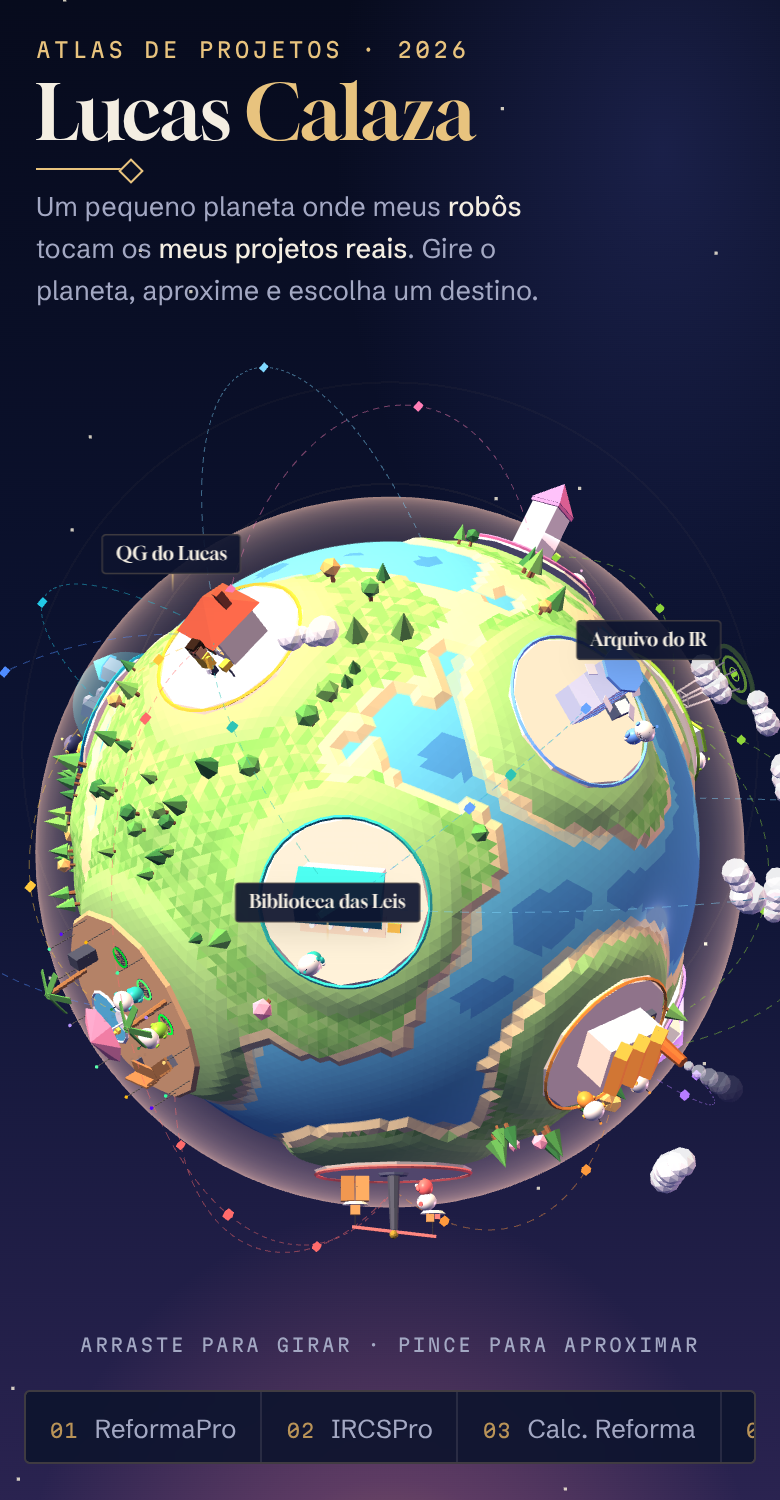
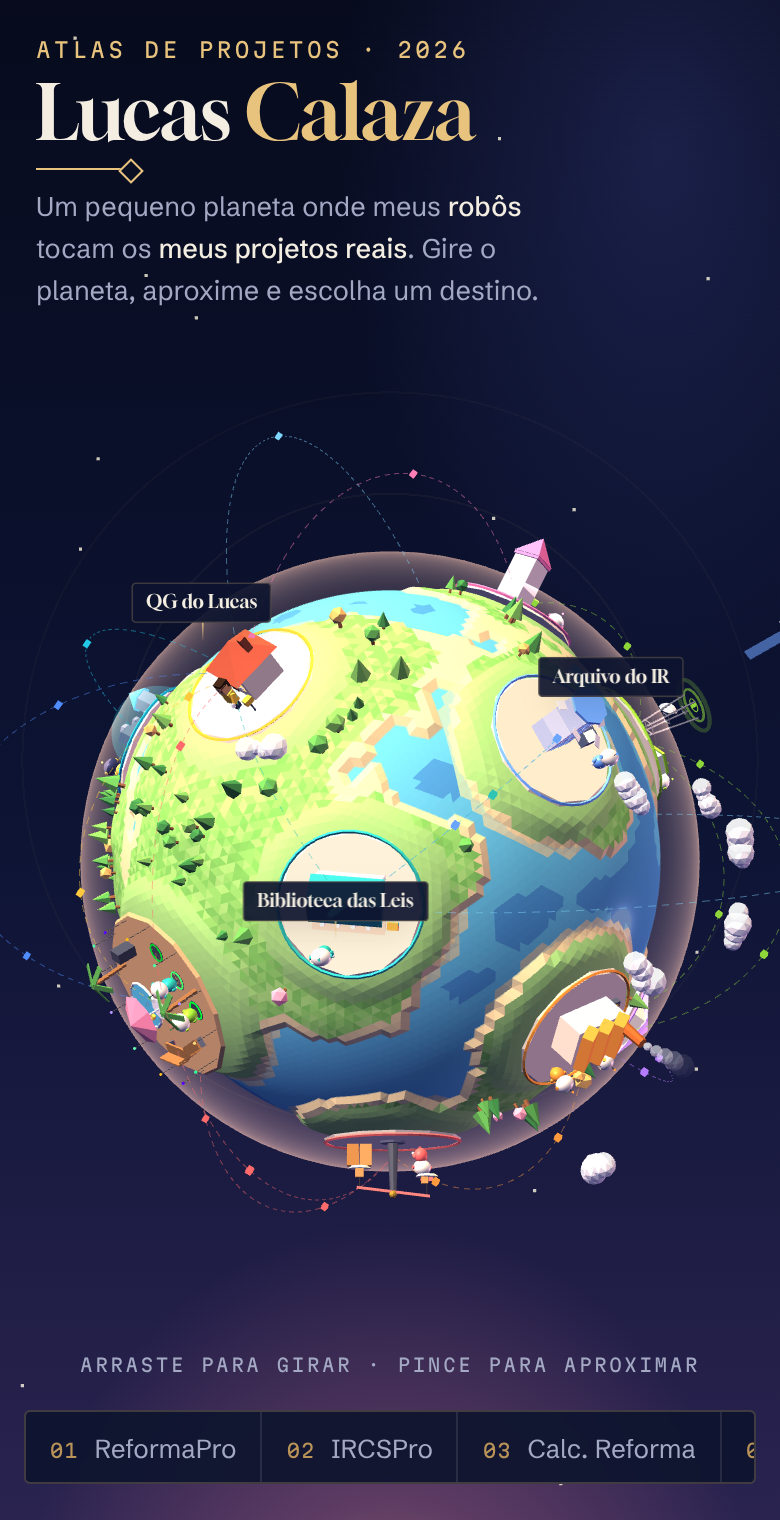
Phone: clouds move with the planet and fit on screen; no text selection on drag
Clouds were attached to the static stage, so they stayed frozen at the
screen edge while the planet was dragged. They now ride with the planet,
the phone fit accounts for the cloud layer, and dragging no longer selects
label text.

Claude-Session: https://claude.ai/code/session_01Q2LmFnkGcqXWvBMF1MaNu7

diff --git a/index.html b/index.html
@@ -64,6 +64,7 @@
   .readout .coord b { color: var(--gold); }
 
   /* ---------- labels over the globe ---------- */
+  #world, #labels, .lbl, .hud, .dock { -webkit-user-select: none; user-select: none; -webkit-tap-highlight-color: transparent; -webkit-touch-callout: none; }
   #labels { position: fixed; inset: 0; pointer-events: none; z-index: 2; overflow: hidden; }
   .lbl {
     position: absolute; left: 0; top: 0; transform-origin: 50% 100%;
@@ -820,7 +821,7 @@ function buildWorld() {
     crown.count = k1; crown2.count = k2;
     globe.add(trunk, crown, crown2);
   }
-  const clouds = new T.Group(); stage.add(clouds);
+  const clouds = new T.Group(); globe.add(clouds); // clouds ride with the planet when it is dragged
   const cloudMat = new T.MeshStandardMaterial({ color: 0xffffff, flatShading: true, roughness: 1, transparent: true, opacity: .92 });
   {
     const cr = rng(5), cm = cloudMat;
@@ -1298,8 +1299,8 @@ function buildWorld() {
       const top = document.querySelector(".hud").getBoundingClientRect().bottom + 8;
       const bottom = document.getElementById("dock").getBoundingClientRect().top - 8;
       const band = Math.max(160, bottom - top);
-      const radiusPx = Math.min(band / 2, w / 2) * 0.86;
-      baseDist = (R * 1.08 * h) / (2 * half * radiusPx);
+      const radiusPx = Math.min(band / 2, w / 2) * 0.92;
+      baseDist = (R * 1.32 * h) / (2 * half * radiusPx);
       const visH = 2 * baseDist * half;
       baseOffY = -((top + bottom) / 2 - h / 2) / h * visH;
     } else {
@@ -1418,7 +1419,7 @@ function buildWorld() {
     }
     camera.position.set(-view.offX, -view.offY, view.dist); camera.lookAt(-view.offX, -view.offY, 0);
     cloudMat.opacity += ((current ? 0 : 0.92) - cloudMat.opacity) * Math.min(1, dt * 4); clouds.visible = cloudMat.opacity > 0.02;
-    clouds.rotation.y += dt * 0.025; clouds.rotation.x = 0.2;
+    clouds.rotation.y += dt * 0.025;
     sat.rotation.y += dt * 0.18; satBody.rotation.x += dt * 0.3; satBlink.visible = Math.sin(time * 6) > 0;
     anim.forEach((f) => f(time));
     packets.forEach((p) => { p.t = (p.t + dt * p.speed) % 1; p.p.position.copy(p.curve.getPoint(p.t)); p.p.rotation.set(time * 2, time * 3, 0); });
